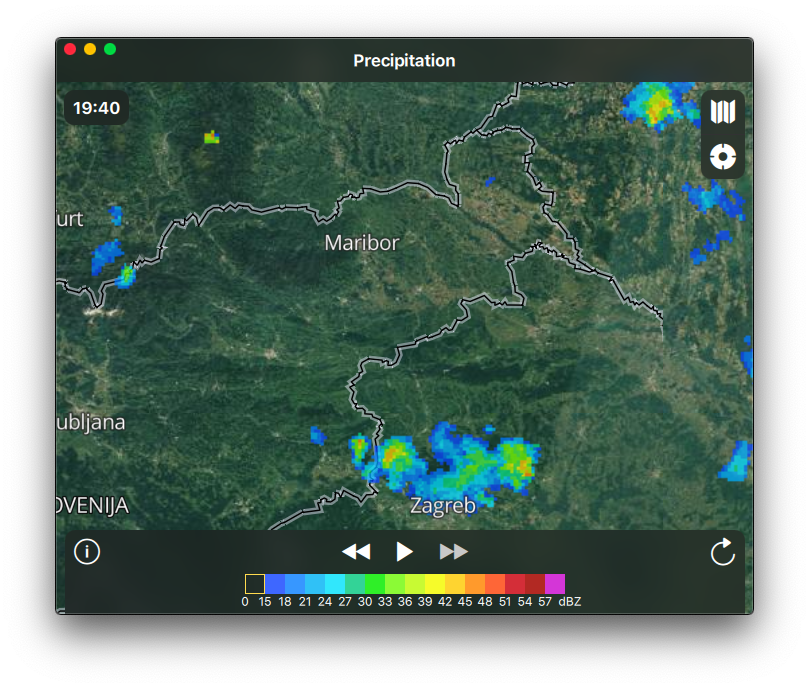
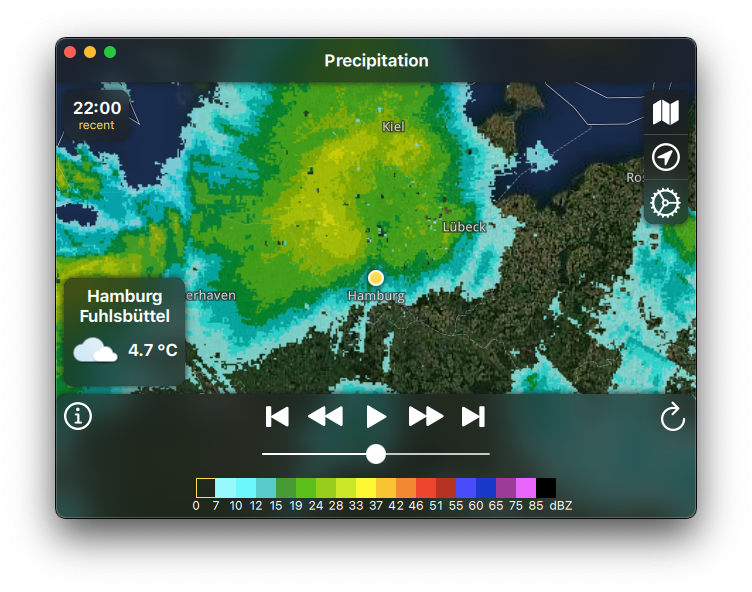
Release 0.5.0

diff --git a/README.md b/README.md
@@ -1,6 +1,6 @@
 # Vremenar
 
-[![Homepage][web-img]][web] [![Latest release][release-img]][release] [![Continuous Integration][ci-img]][ci]
+[![Homepage][web-img]][web] [![Latest release][release-img]][release] [![macOS CI][ci-macos-img]][ci-macos] [![iOS CI][ci-ios-img]][ci-ios] [![Android CI][ci-android-img]][ci-android] [![Linux CI][ci-linux-img]][ci-linux]
 
 [![Vremenar][screen]][web]
 
@@ -21,8 +21,14 @@ The details are outlined in the file [LICENSE.md](LICENSE.md).
 
 [web]: https://vremenar.tano.si
 [release]: https://github.com/ntadej/Vremenar/releases/latest
-[ci]: https://github.com/ntadej/Vremenar/actions
+[ci-macos]: https://github.com/ntadej/Vremenar/actions/workflows/CI-macOS.yml
+[ci-ios]: https://github.com/ntadej/Vremenar/actions/workflows/CI-iOS.yml
+[ci-android]: https://github.com/ntadej/Vremenar/actions/workflows/CI-Android.yml
+[ci-linux]: https://github.com/ntadej/Vremenar/actions/workflows/CI-Linux.yml
 [web-img]: https://img.shields.io/badge/web-vremenar.tano.si-yellow.svg
 [release-img]: https://img.shields.io/github/release/ntadej/Vremenar.svg
-[ci-img]: https://github.com/ntadej/Vremenar/workflows/Continuous%20Integration/badge.svg
+[ci-macos-img]: https://github.com/ntadej/Vremenar/actions/workflows/CI-macOS.yml/badge.svg
+[ci-ios-img]: https://github.com/ntadej/Vremenar/actions/workflows/CI-iOS.yml/badge.svg
+[ci-android-img]: https://github.com/ntadej/Vremenar/actions/workflows/CI-Android.yml/badge.svg
+[ci-linux-img]: https://github.com/ntadej/Vremenar/actions/workflows/CI-Linux.yml/badge.svg
 [screen]: graphics/screen1.png

diff --git a/CHANGELOG.md b/CHANGELOG.md
@@ -1,11 +1,15 @@
 # Vremenar Changelog
 
-## Unreleased
+## 0.5.0 (2022-02-12)
+
+New features:
+- Windows support
+- map slider
 
 Improvements:
-- Improved frameless window handling (macOS and Windows)
-- System icons on Windows and macOS
-- Windows support
+- full support for Germany
+- improved frameless window handling (macOS and Windows)
+- system icons on Windows, macOS and iOS; updated icons on Android
 - macOS and iOS store support
 
 ## 0.4.0 (2021-12-29)
